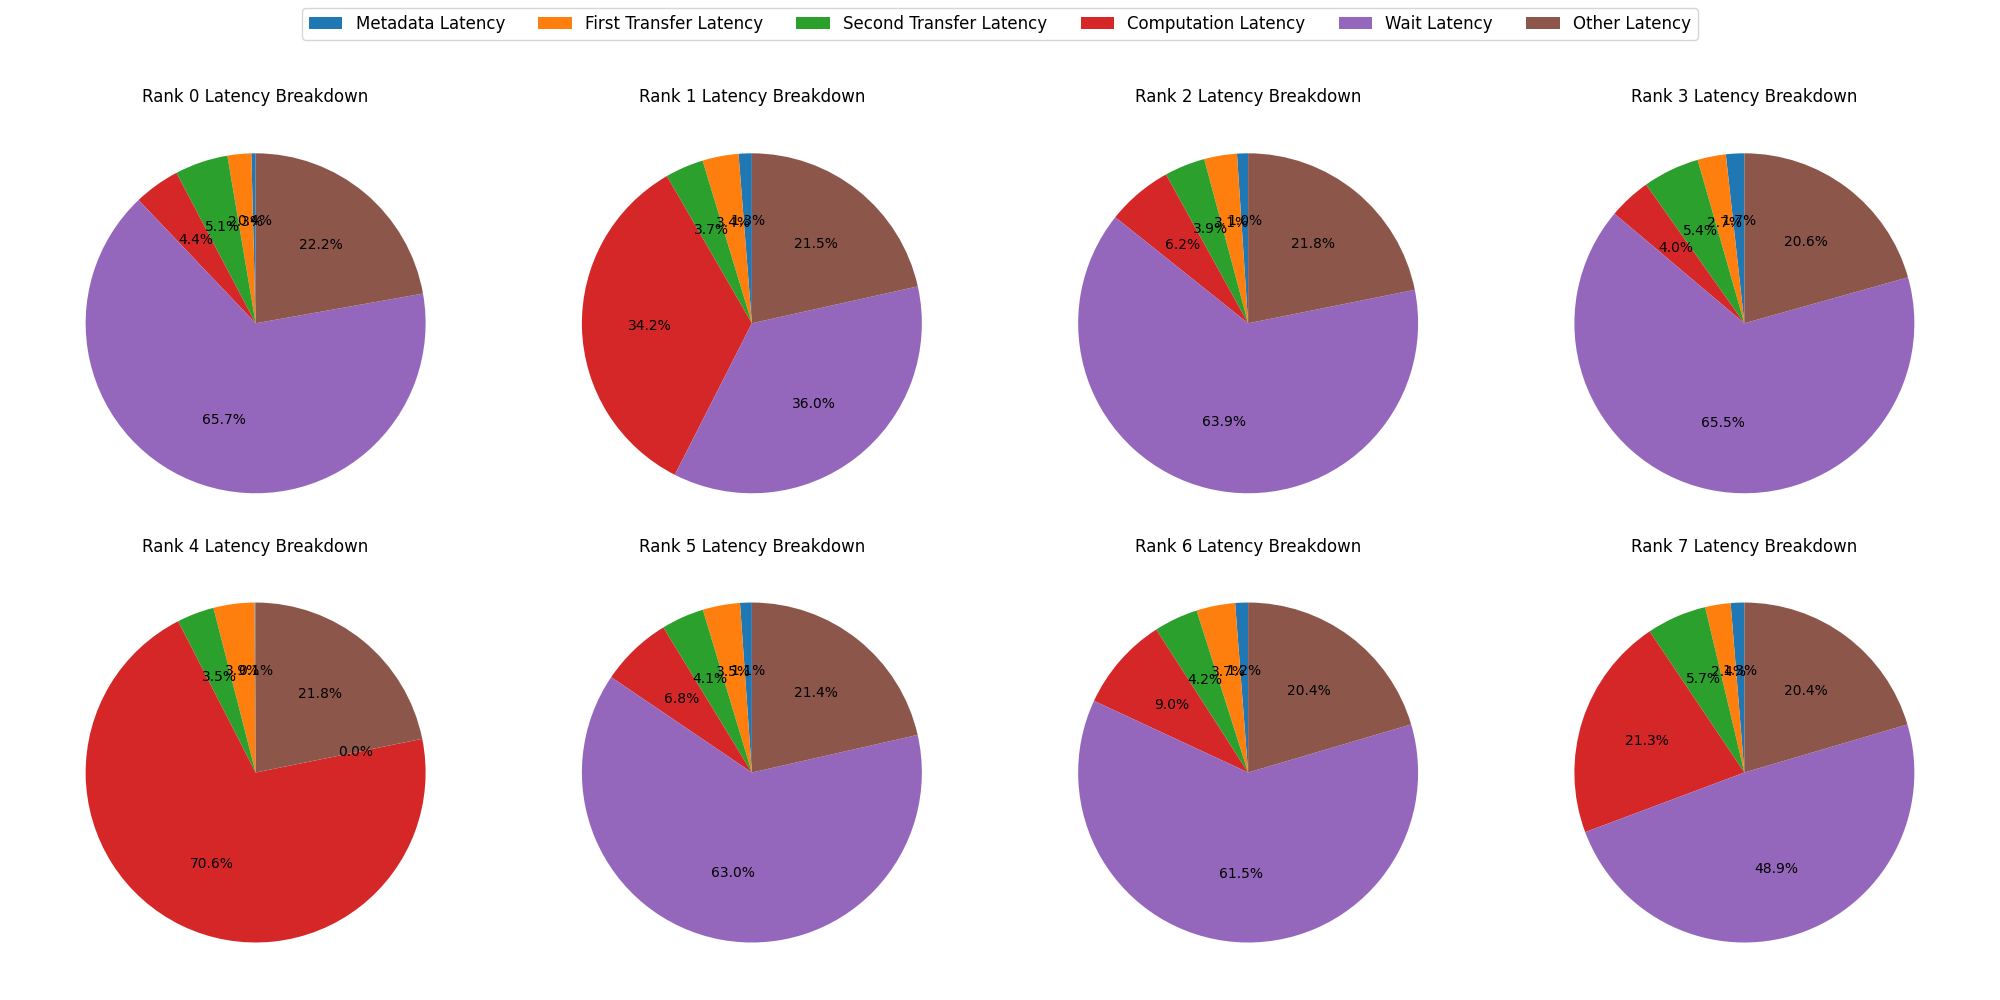
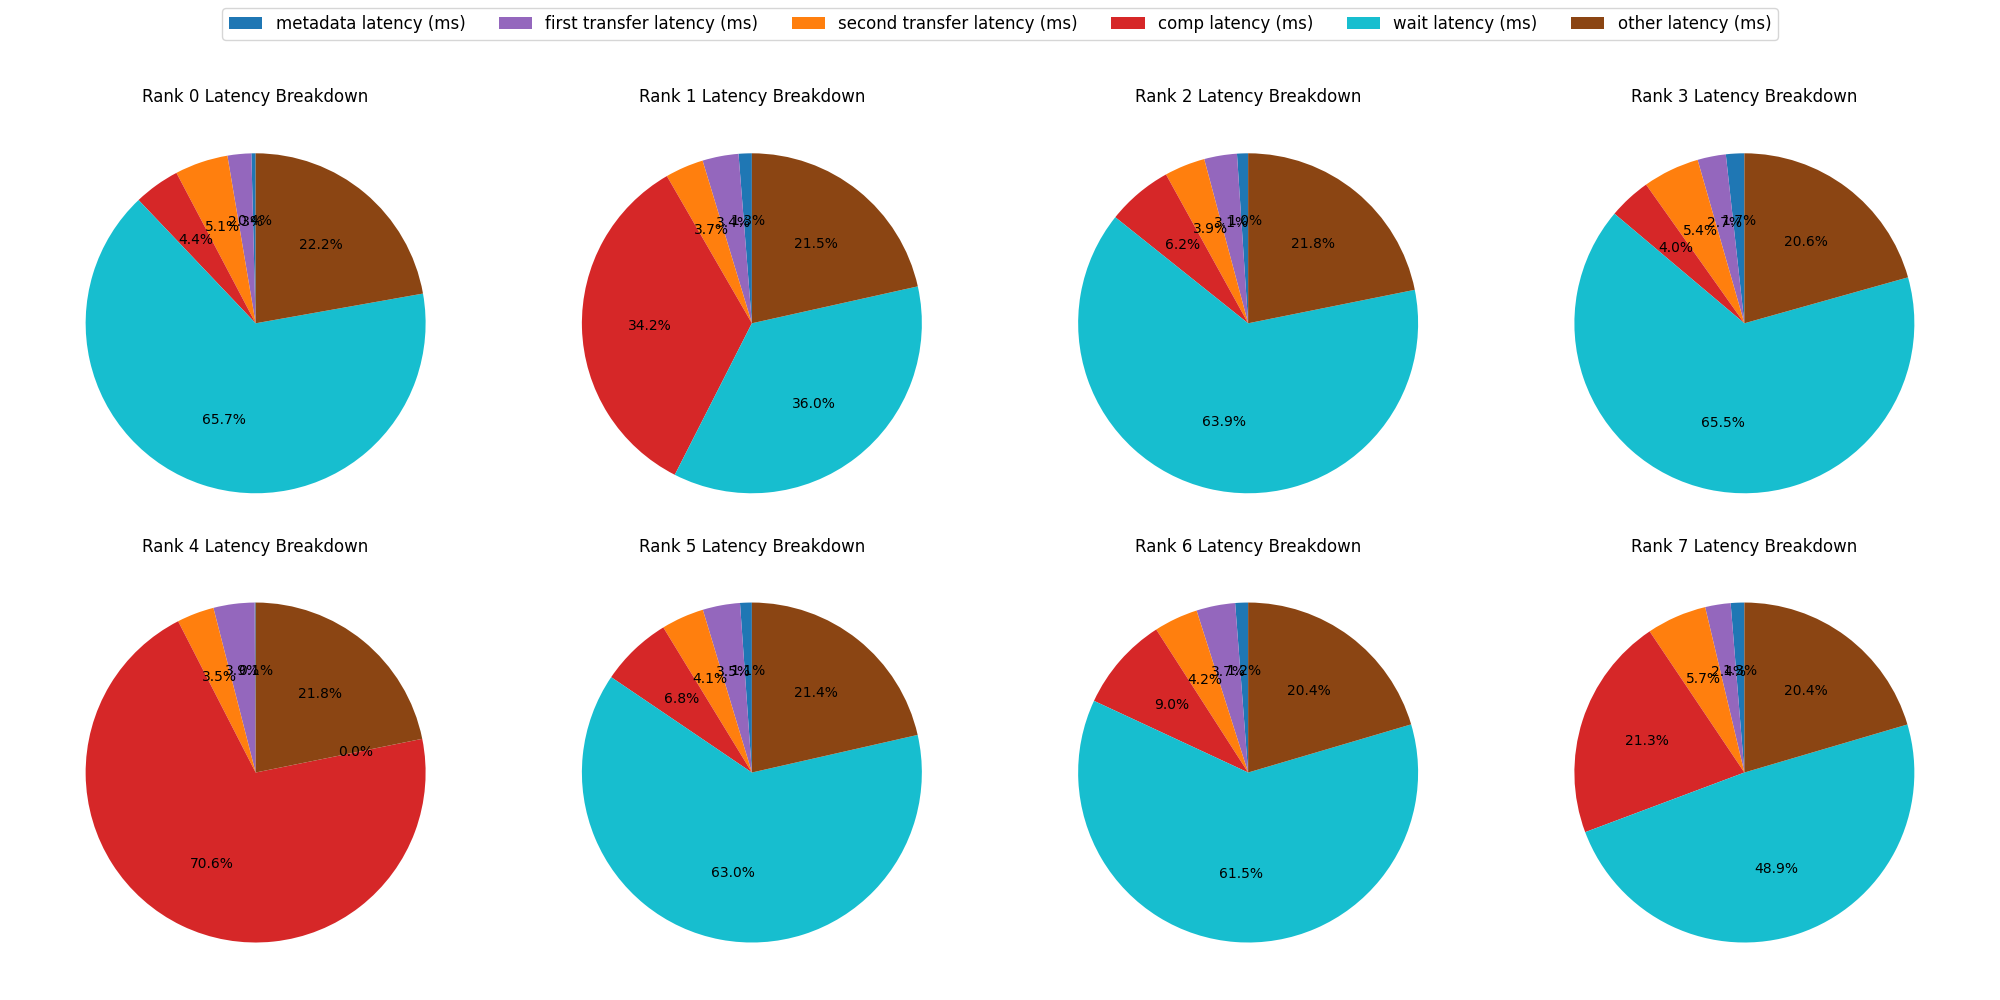
New and improved plotting

diff --git a/plotting/plot_csv_timebreakdown.py b/plotting/plot_csv_timebreakdown.py
@@ -3,6 +3,18 @@ import pandas as pd
 from utils import save_plot
 import matplotlib.pyplot as plt
 
+COLOUR_MAP = {
+    "metadata latency (ms)": "#1f77b4",  #
+    "schedule latency (ms)": "#2ca02c",  
+    "first transfer latency (ms)": "#9467bd", 
+    "second transfer latency (ms)": "#ff7f0e",  
+    "comp latency (ms)": "#d62728",  
+    "wait latency (ms)": "#17becf",  
+    "other latency (ms)": "#8b4513", 
+}
+
+DEFAULT_COLOUR = "#7f7f7f"  
+
 if len(sys.argv) < 2:
     print("Pass csv you want to work on")
     exit(0)
@@ -15,31 +27,26 @@ df = df[df["layer"] == 4]
 num_ranks = df["rank"].max()+1
 
 # Create a pie chart for each rank
-
 fig, axes = plt.subplots(2, 4, figsize=(20, 10))
 
 axes = axes.flatten()
 
-labels = [
-    "Metadata Latency", "First Transfer Latency",
-    "Second Transfer Latency", "Computation Latency", "Wait Latency", 
-    "Other Latency",
-]
+labels = df.columns.to_list()
+labels.remove("layer")
+labels.remove("latency (ms)")
+labels.remove("rank")
 
 legend_wedges = None
 
-
 for rank in range(num_ranks):
     rank_data = df[df["rank"] == rank].iloc[0]
-    values = [
-        rank_data["metadata latency (ms)"],
-        rank_data["first transfer latency (ms)"],
-        rank_data["second transfer latency (ms)"],
-        rank_data["comp latency (ms)"],
-        rank_data["wait latency (ms)"],
-        rank_data["other latency (ms)"],
-    ]
-    wedges, _, _ = axes[rank].pie(values, autopct='%1.1f%%', startangle=90)
+    rank_data = rank_data.drop(["layer", "rank", "latency (ms)"])
+    values = rank_data.tolist()
+    component_labels = rank_data.index.tolist()
+
+    colors = [COLOUR_MAP.get(component, DEFAULT_COLOUR) for component in component_labels]
+
+    wedges, _, _ = axes[rank].pie(values, autopct='%1.1f%%', startangle=90, colors=colors)
     axes[rank].set_title(f"Rank {rank} Latency Breakdown")
 
     if legend_wedges is None:
